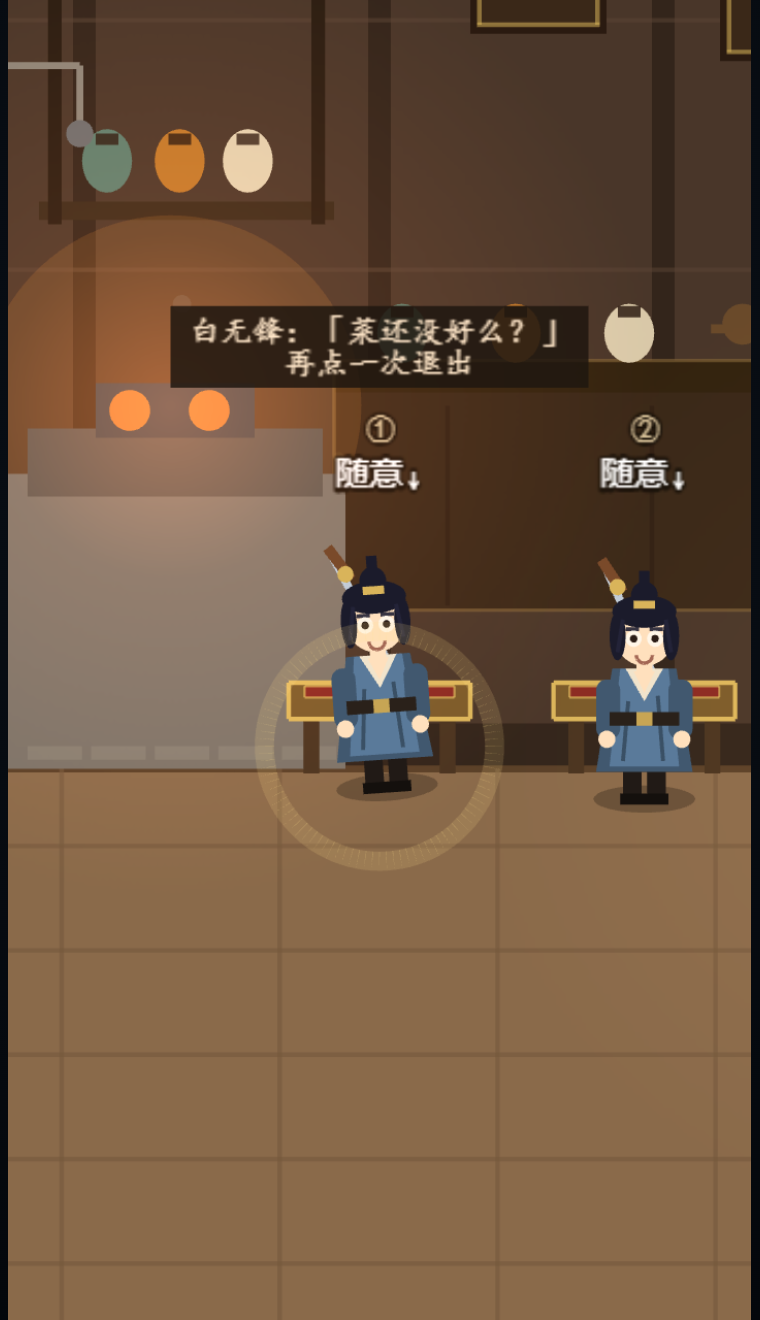
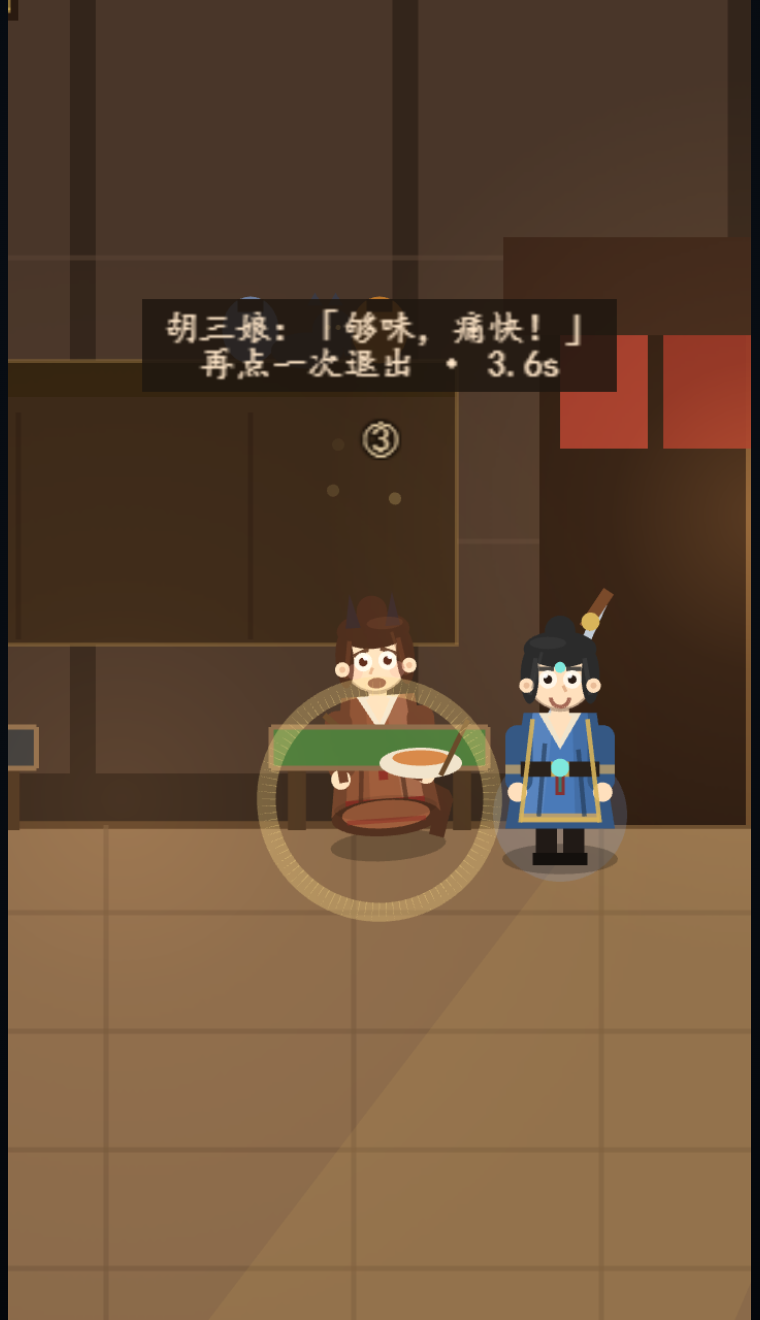
人物美术与坐姿：脸部/袍面细节、用膳沉到桌后、2.5x 特写
- 脸：耳朵、鼻影、发顶高光、瞳孔高光/身份瞳色、腮红加重
- 袍：受光/暗面、下摆滚边、袖口、腰带结
- 用膳：depth 1.8 沉到桌后，桌沿挡腰腿，衣摆摊开，双手搭碗/筷子
- 特写 2.2→2.5x，3.6s；队列/入座镜头对准终点
- 记录单盲评 4（7/5.5/6/6.5）与剩余纸片/近景边界

diff --git a/src/main.ts b/src/main.ts
@@ -309,6 +309,8 @@ class Character extends Phaser.GameObjects.Container {
   private eyeR: Phaser.GameObjects.Arc;
   private eyeWhiteL: Phaser.GameObjects.Arc;
   private eyeWhiteR: Phaser.GameObjects.Arc;
+  private glintL: Phaser.GameObjects.Arc;
+  private glintR: Phaser.GameObjects.Arc;
   private aura?: Phaser.GameObjects.Arc;
   private patienceBg?: Phaser.GameObjects.Rectangle;
   private patienceFill?: Phaser.GameObjects.Rectangle;
@@ -348,15 +350,27 @@ class Character extends Phaser.GameObjects.Container {
     this.visual.add(this.art);
     this.eyeWhiteL = scene.add.circle(-4, -19, 3, 0xfff6e8).setDepth(1);
     this.eyeWhiteR = scene.add.circle(4, -19, 3, 0xfff6e8).setDepth(1);
-    this.eyeL = scene.add.circle(-4, -19, 1.4, 0x2a1c16).setDepth(2);
-    this.eyeR = scene.add.circle(4, -19, 1.4, 0x2a1c16).setDepth(2);
-    this.visual.add([this.eyeWhiteL, this.eyeWhiteR, this.eyeL, this.eyeR]);
+    const pupil =
+      look === "demonlord"
+        ? 0x8a1a1a
+        : look === "elder"
+          ? 0x3a4a6a
+          : look === "demon"
+            ? 0x5a2a1a
+            : look === "sword"
+              ? 0x1a1a2a
+              : 0x2a1c16;
+    this.eyeL = scene.add.circle(-4, -19, 1.4, pupil).setDepth(2);
+    this.eyeR = scene.add.circle(4, -19, 1.4, pupil).setDepth(2);
+    this.glintL = scene.add.circle(-4.8, -20.2, 0.8, 0xffffff, 0.92).setDepth(3);
+    this.glintR = scene.add.circle(3.2, -20.2, 0.8, 0xffffff, 0.92).setDepth(3);
+    this.visual.add([this.eyeWhiteL, this.eyeWhiteR, this.eyeL, this.eyeR, this.glintL, this.glintR]);
     this.add(this.visual);
     this.draw();
     this.setDepth(20);
     scene.add.existing(this);
     scene.tweens.add({
-      targets: [this.eyeWhiteL, this.eyeWhiteR, this.eyeL, this.eyeR],
+      targets: [this.eyeWhiteL, this.eyeWhiteR, this.eyeL, this.eyeR, this.glintL, this.glintR],
       scaleY: 0.12,
       duration: 70,
       yoyo: true,
@@ -416,6 +430,12 @@ class Character extends Phaser.GameObjects.Container {
     const deep = this.shade(body, 0.5);
     const skin = 0xffe0bd;
     const hair = this.hairColor;
+    const trim =
+      this.look === "demon" || this.look === "demonlord"
+        ? 0x8a2a22
+        : this.look === "elder"
+          ? 0xd9b45a
+          : 0xbfa06a;
     g.clear();
 
     // 影子与脚
@@ -464,6 +484,34 @@ class Character extends Phaser.GameObjects.Container {
     g.lineTo(-13, 28);
     g.closePath();
     g.fillPath();
+    // 受光面/暗面与下摆滚边，别让袍子是一块纯色
+    g.fillStyle(0xffffff, 0.08);
+    g.beginPath();
+    g.moveTo(-9, -8);
+    g.lineTo(-2, -8);
+    g.lineTo(-6, 28);
+    g.lineTo(-13, 28);
+    g.closePath();
+    g.fillPath();
+    g.fillStyle(0x000000, 0.1);
+    g.beginPath();
+    g.moveTo(4, -8);
+    g.lineTo(9, -8);
+    g.lineTo(13, 28);
+    g.lineTo(5, 28);
+    g.closePath();
+    g.fillPath();
+    g.fillStyle(trim, 0.92);
+    g.fillRect(-13, 25, 26, 3);
+    if (this.dining) {
+      // 坐姿下摆：腿收起，衣摆摊在桌后
+      g.fillStyle(deep, 1);
+      g.fillEllipse(0, 31, 36, 12);
+      g.fillStyle(body, 1);
+      g.fillEllipse(0, 30, 29, 9);
+      g.lineStyle(1.5, trim, 0.55);
+      g.lineBetween(-13, 32, 13, 32);
+    }
     // 衣褶
     g.lineStyle(1.5, deep, 0.7);
     g.lineBetween(-5, 2, -7, 26);
@@ -472,6 +520,9 @@ class Character extends Phaser.GameObjects.Container {
     g.fillStyle(dark, 1);
     g.fillRoundedRect(-18, -4, 9, 22, 4);
     g.fillRoundedRect(9, -4, 9, 22, 4);
+    g.fillStyle(trim, 0.8);
+    g.fillRect(-18, 9, 9, 3);
+    g.fillRect(9, 9, 9, 3);
     g.fillStyle(skin, 1);
     g.fillCircle(-14, 18, 3.2);
     g.fillCircle(14, 18, 3.2);
@@ -480,6 +531,9 @@ class Character extends Phaser.GameObjects.Container {
     g.fillRect(-13, 8, 26, 5);
     g.fillStyle(0xd9b45a, 0.9);
     g.fillRect(-3, 8, 6, 5);
+    g.fillCircle(0, 10.5, 2.1);
+    g.fillStyle(0x8a2a22, 0.9);
+    g.fillRect(-1.5, 12, 3, 7);
     // 交领
     g.fillStyle(0xf1e4cc, 1);
     g.beginPath();
@@ -490,6 +544,19 @@ class Character extends Phaser.GameObjects.Container {
     g.fillPath();
     g.fillStyle(skin, 1);
     g.fillTriangle(-4, -7, 4, -7, 0, 1);
+    if (this.dining) {
+      // 用膳时手搭在桌沿/碗边，别让双手垂在身侧
+      g.fillStyle(0x000000, 0.1);
+      g.fillEllipse(0, 28, 34, 8);
+      g.lineStyle(3, dark, 1);
+      g.lineBetween(-13, 19, 6, 12);
+      g.lineBetween(13, 19, 14, 10);
+      g.fillStyle(skin, 1);
+      g.fillCircle(6, 12, 2.6);
+      g.fillCircle(14, 10, 2.6);
+      g.lineStyle(2, 0x6a4a2a, 1);
+      g.lineBetween(11, 4, 18, -3);
+    }
 
     // 长发/后发
     if (this.longHair) {
@@ -500,6 +567,8 @@ class Character extends Phaser.GameObjects.Container {
     g.fillStyle(skin, 1);
     g.fillRect(-3, -12, 6, 5);
     g.fillCircle(0, -20, 11);
+    g.lineStyle(1.2, 0x4a3226, 0.35);
+    g.strokeCircle(0, -20, 11);
     // 后发与发髻：只盖住头顶，别把脸埋掉
     g.fillStyle(hair, 1);
     g.fillEllipse(0, -29, 24, 12);
@@ -555,13 +624,26 @@ class Character extends Phaser.GameObjects.Container {
     g.lineStyle(1.5, this.shade(hair, 1.35), 0.9);
     g.lineBetween(-8, -26, -10, -14);
     g.lineBetween(8, -26, 10, -14);
+    // 耳朵、鼻子与发顶高光
+    g.fillStyle(skin, 1);
+    g.fillCircle(-11, -17, 2.4);
+    g.fillCircle(11, -17, 2.4);
+    g.fillStyle(0xd8a07a, 0.55);
+    g.fillCircle(-11, -17, 1);
+    g.fillCircle(11, -17, 1);
+    g.lineStyle(1, 0xd8a07a, 0.7);
+    g.lineBetween(1, -17, 2, -15);
+    g.fillStyle(this.shade(hair, 1.6), 0.35);
+    g.fillEllipse(-4, -31, 12, 4);
+    g.lineStyle(1, this.shade(hair, 1.6), 0.4);
+    g.lineBetween(-6, -28, -9, -16);
     // 嘴：等菜微愁，用膳张嘴笑并带一点腮红，稀客冷脸
     if (this.mood === "dining") {
       g.fillStyle(0x7a3a30, 0.95);
       g.fillEllipse(0, -12, 6, 3.4);
-      g.fillStyle(0xffb0a0, 0.28);
-      g.fillCircle(-7, -16, 2.6);
-      g.fillCircle(7, -16, 2.6);
+      g.fillStyle(0xffb0a0, 0.45);
+      g.fillCircle(-7, -16, 3.2);
+      g.fillCircle(7, -16, 3.2);
     } else if (this.mood === "waiting") {
       g.lineStyle(1.2, 0x9a5a4a, 0.8);
       g.beginPath();
@@ -687,11 +769,13 @@ class Character extends Phaser.GameObjects.Container {
     this.draw();
   }
 
-  /** 用膳：收起腿、压低身子并做咀嚼起伏，看起来是坐着吃而不是站着。 */
+  /** 用膳：收起腿、坐到桌后（桌沿挡住腰腿），再做咀嚼起伏。 */
   setDining(on: boolean) {
     if (this.dining === on || !this.scene || !this.visual?.active) return;
     this.dining = on;
     this.mood = on ? "dining" : "idle";
+    // 桌子 depth=2：用膳时沉到桌子后面，桌沿自然挡住下半身
+    this.setDepth(on ? 1.8 : 20);
     this.draw();
     this.stopIdle();
     if (on) {
@@ -4555,8 +4639,8 @@ class TavernScene extends Phaser.Scene {
     this.eventToast = undefined;
     this.hintToast?.destroy();
     this.hintToast = undefined;
-    cam.pan(targetX, targetY - 14, 320, "Sine.easeInOut");
-    cam.zoomTo(2.2, 320, "Sine.easeInOut");
+    cam.pan(targetX, targetY - 30, 320, "Sine.easeInOut");
+    cam.zoomTo(2.5, 320, "Sine.easeInOut");
     char.focusPose();
     char.clearBubble();
     this.focusCaption?.destroy();
@@ -4570,7 +4654,7 @@ class TavernScene extends Phaser.Scene {
         padding: { x: 8, y: 4 },
         align: "center",
         fontFamily: XIAN_FONT,
-        wordWrap: { width: 300 },
+        wordWrap: { width: 250 },
       })
       .setOrigin(0.5)
       .setDepth(27);

diff --git a/docs/playtest.md b/docs/playtest.md
@@ -58,7 +58,7 @@
 - 已补：排队基准位 315/间距 38 → 300/34（3 人时第三人屏幕 x≈668，实测 600/634/668）；欠身 4° / 16px 下压 + 脚下金环（1.5s）+ 四颗灵光，特写中加「再点一次退出」浮签；Lv2 小灯放大并加光晕，配合桌面红案与金边；每桌常驻 ①②③ 桌号，动态桌卡只显示菜名/入座，烹饪日志写明「为 N 号桌烹制」；气泡先完整显示 1.7 秒再淡出；出菜提示 18px、桌卡 15px、事件行 19px。
 - 聚焦复核（art6）：7 / 7 / 6 / 6，指出 3/3 第三人裁切、气泡太淡、金环 <700ms、桌号不常驻、Lv2 小灯不显。以上五点随后已修，并用本机脚本确认 3 人屏幕 x=600/634/668、桌号 ①②③ 常驻、特写浮签存在、无脚本错误；未再跑第三轮独立评分。
 - 五点复验（art7）：排队、气泡、欠身/金环/浮签、常驻桌号全部解决；Lv2 壁灯仍偏弱，分数 **第一眼 8 / 人物 8 / 沉浸 7 / 想再来一天 7**。随后把 Lv2 双壁灯改成**正中一盏大红灯笼**（半径 56 的暖晕、金色上下箍与流苏）。再次复核：Lv2 与 Lv1 一眼可分、暖光成立，**沉浸感升到 8**；最终独立分数为 **8 / 8 / 8 / 7**。
-- 当前独立评分：早前聚焦单轮美术修正的复核为 **美术总监 8/8/8/7**、**休闲玩家 7/7/6/6**；2026-10-24 晚三名全新盲评中位 **7/6/6/6**；之后三次最终构建单盲评分别为 **6/6/5.5/7**、**8/7/6.5/7**、**7/5/6.5/6.5**（首次 8/7 与 7/5 是不同评审对同一版人物美术的分歧）。这些分数都早于最后一轮小修，不能互相覆盖；仍然没有真人样本。
+- 当前独立评分：早前聚焦单轮美术修正的复核为 **美术总监 8/8/8/7**、**休闲玩家 7/7/6/6**；2026-10-24 晚三名全新盲评中位 **7/6/6/6**；之后四次最终构建单盲评分别为 **6/6/5.5/7**、**8/7/6.5/7**、**7/5/6.5/6.5**、**7/5.5/6/6.5**（人物分在 5–7 之间波动，说明程序化人物仍是主观分歧点）。这些分数都早于最后一轮坐姿/美术小修，不能互相覆盖；仍然没有真人样本。
 
 ## 本轮长时体验修复（2026-10-24 晚）
 
@@ -142,8 +142,21 @@
 - **招牌写 +25% 但 6→8 实际 +33%** → 菜单页显示实际「6→8 灵石（+33%）」，出菜行显示实际百分比；Day1 菜单显示「再解锁一道菜后开启」。
 - **菜单遮罩底层透字** → 0.97→0.995。
 - **升级没有反馈** → 升级后自动关闭营造页，并在打烊视图弹「营造升至 LvX」。
-- **人物表情（盲评后追加）**：排队微愁、用膳张嘴笑并带腮红、稀客冷脸；用餐 3→4.5s，两桌同时用膳时碰杯保底每 7 秒一次；特写镜头对准队列位/桌位终点，避免拍到路过的一帧。尚未复评。
-- 未处理：人物仍是扁平纸片、390 屏信息密度、首日单菜菜单、新手没有自动弹出玩法页；这些需要下一轮美术与 UI 重构，而不是继续加小功能。
+- **人物表情（盲评后追加）**：排队微愁、用膳张嘴笑并带腮红、稀客冷脸；用餐 3→4.5s，两桌同时用膳时碰杯保底每 7 秒一次；特写镜头对准队列位/桌位终点，避免拍到路过的一帧。
+- **人物美术（盲评后追加）**：袍子加受光/暗面与下摆滚边、袖口、腰带结；脸加耳朵、鼻影、发顶高光、瞳孔高光与身份瞳色；用膳时沉到桌子后面（桌沿挡腰腿）、衣摆摊开，双手搭在碗边并加筷子；特写 2.2→2.5×。仍未脱离矢量纸片，但比上一版更像一个坐着吃饭的人。尚未复评。
+- 未处理：人物仍是矢量纸片（本轮加了袍面光影、用餐姿势与表情，但还不是逐帧动画）、390 屏信息密度、首日单菜菜单、新手没有自动弹出玩法页；这些需要下一轮美术与 UI 重构，而不是继续加小功能。
+
+## 单盲评 4（人物美术轮，2026-10-24 晚）
+
+第四名全新手机盲评（390×844，干净上下文，两天 + 定向特写，超了 7 分钟预算）：**第一眼 7 / 人物 5.5 / 沉浸 6 / 想再来一天 6.5**，愿意再玩几次短局。它确认了今日招牌「6→8（+33%）」、两桌碰杯（气泡「同席是缘，干杯。」+「碰杯」字）、三张特写语境正确、名字/身份可信。
+
+它指出的问题与处理：
+
+- **人物仍像纸片**：没有肘膝、用膳仍是站姿、手是白圆、碗像黑条、腮红看不见。→ 用膳时把角色沉到桌子后面（depth 1.8），桌沿挡住腰腿，衣摆摊开；腮红加重；脸加耳朵/鼻影/发顶高光/瞳孔高光，袍子加受光面/滚边/袖口/腰带结；特写收到 2.5×。
+- **近景构图松、空地板多**：建议头肩景；本轮只收紧到 2.5×，未做专门的 3/4 头肩构图。
+- **常客两天 16 客没遇到**（状态标记全 false）：未证明坏了（前几轮见过常客），但早期出现率偏低，留作下一轮关系层调参。
+- **排队满未触发**（峰值 1/3）：慢节奏首日已经很少排满，未复现。
+- **菜单备货没有进度反馈**：打烊菜单里的备货是即时到账并重建遮罩；评审观察到的是重建前后的同一帧，暂不改行为。
 
 ## 当前构建的实测
 
@@ -266,7 +279,7 @@
 - 这是**本机自动化试玩 + 两次独立盲测（AI 评审）**，没有真人玩家样本、全球排行榜或第三方媒体评测，因此不能据此证明「全世界最好玩」；它证明的是「有一款完整、可复现、经过盲测并针对主要问题迭代过的游戏」。
 - 盲测分数是各轮修复前的快照（第一轮 4/10、3/10；第二轮 5/10、5/10；第三轮 5.5/10、6/10）。第三轮设计师的测试中途被仓库 HMR 打断并重跑，前后可能不是同一版本；分数只代表盲测当时看到的东西，不是长期结论。
 - 没有云存档/全球排行；跨设备迁移依赖手动 `LS1.` 导出码。
-- 今日招牌、升级成本、手机字号、首日节奏与用膳特写已进入单盲评 2（8/7/6.5/7）；常客身份、急购提示、菜单 ◆、目标日志前缀在单盲评 2 后修；用餐 4.5s、两桌碰杯每 7 秒、特写 3.6s/队列终点、招牌实际百分比、「下位 Ns」、菜单 0.995、升级 toast 在单盲评 3 后修。这些最后的改动只有本地脚本核对，没有新的盲评分；修复后的完整复测工作流仍在启动约 27 秒后挂起。
+- 今日招牌、升级成本、手机字号、首日节奏与用膳特写已进入单盲评 2（8/7/6.5/7）；常客身份、急购提示、菜单 ◆、目标日志前缀在单盲评 2 后修；用餐 4.5s、两桌碰杯每 7 秒、特写 3.6s/队列终点、人物袍面光影/坐姿桌沿遮挡/用餐手部/2.5×、招牌实际百分比、「下位 Ns」、菜单 0.995、升级 toast 在单盲评 3/4 后修。这些最后的改动只有本地脚本/截图核对，没有新的盲评分；修复后的完整复测工作流仍在启动约 27 秒后挂起。
 - 底部按钮从 4 个变成 5 个，390px 手机宽度下最右的「吆喝」命中区约 35×47 CSS px；仍需真机手指复验。
 - 6 日长跑证明了目标可达与常客跨日延续，但灵材是注入的、操作是脚本，且常客在脚本下都爱上同一道菜；不能替代真人长时体验。
 - 音频只验证了乐句结构、开关与不报错，未做人耳听感评估。

diff --git a/README.md b/README.md
@@ -39,7 +39,7 @@ npm run build   # 生产构建
 - 八重境界、飞升与仙缘；只有亲自下厨得修为
 - 随机事件（整体期望为正，每局至多 2 次）与见闻录
 - 程序合成的水墨风画面：标题页、三层远山、月晕、漂云、会摆动的灯笼、窗棂、山水挂画与酒坛；每日开场题头与晴/灵雾/落英粒子
-- 小人会呼吸、眨眼、带身份道具（剑/葫芦/长须/草帽/犄角/托盘/酒旗），排队时微愁、用膳时张嘴笑并带腮红、稀客冷脸；入座和用膳有碗筷热气，下厨有灵气微光，等菜时会说话；**点人物会推近成特写**，字幕带姓名并回一句身份台词
+- 小人会呼吸、眨眼、带身份道具（剑/葫芦/长须/草帽/犄角/托盘/酒旗），袍面有受光/暗面、滚边与袖口，排队时微愁、用膳时双手搭碗张嘴笑并带腮红、稀客冷脸；入座和用膳有碗筷热气，下厨有灵气微光，等菜时会说话；**点人物会推近成特写**，字幕带姓名并回一句身份台词
 - 每日开张有「第 X 日 + 晴/灵雾/落英」题头与天气粒子
 - 程序合成的五声音阶 BGM 与操作/事件音效，可分别静音
 - 跨周目账簿：累计数据、本机单日最高记录、单日收入前 5 榜、10 项成就
